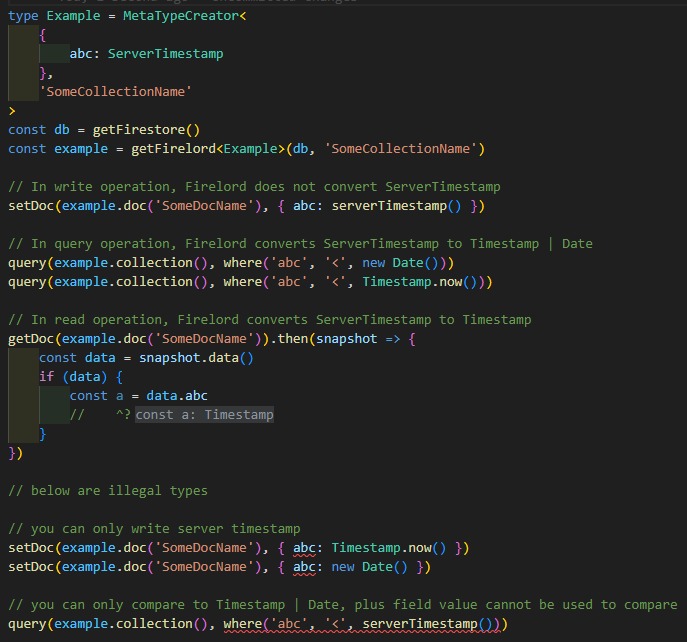
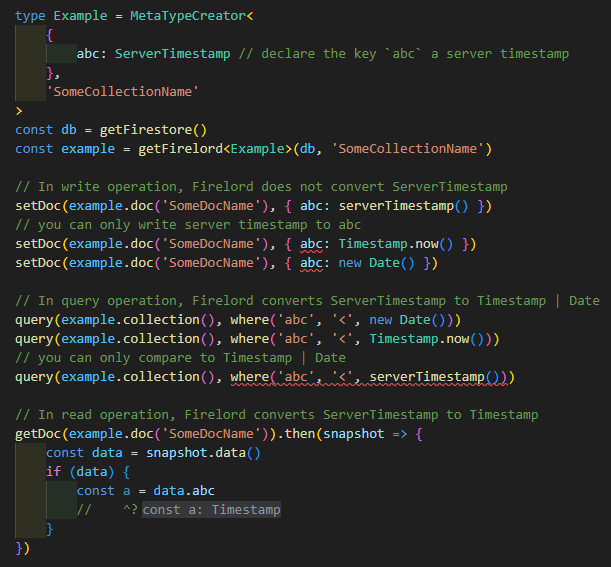
update readme, add cjs version

diff --git a/codeForDoc/src/readme.ts b/codeForDoc/src/readme.ts
@@ -10,9 +10,10 @@ import {
 	getDoc,
 	Timestamp, // firestore timestamp
 } from 'firelordjs'
+
 type Example = MetaTypeCreator<
 	{
-		a: ServerTimestamp
+		abc: ServerTimestamp // declare the key `abc` a server timestamp
 	},
 	'SomeCollectionName'
 >
@@ -20,14 +21,25 @@ const db = getFirestore()
 const example = getFirelord<Example>(db, 'SomeCollectionName')
 
 // In write operation, Firelord does not convert ServerTimestamp
-setDoc(example.doc('SomeDocName'), { a: serverTimestamp() })
+setDoc(example.doc('SomeDocName'), { abc: serverTimestamp() })
+// you can only write server timestamp to abc
+// @ts-expect-error
+setDoc(example.doc('SomeDocName'), { abc: Timestamp.now() })
+// @ts-expect-error
+setDoc(example.doc('SomeDocName'), { abc: new Date() })
+
 // In query operation, Firelord converts ServerTimestamp to Timestamp | Date
-query(example.collection(), where('a', '<', new Date()))
-query(example.collection(), where('a', '<', Timestamp.now()))
+query(example.collection(), where('abc', '<', new Date()))
+query(example.collection(), where('abc', '<', Timestamp.now()))
+// you can only compare to Timestamp | Date
+// @ts-expect-error
+query(example.collection(), where('abc', '<', serverTimestamp()))
+
 // In read operation, Firelord converts ServerTimestamp to Timestamp
 getDoc(example.doc('SomeDocName')).then(snapshot => {
 	const data = snapshot.data()
 	if (data) {
-		const a = data.a // Timestamp
+		const a = data.abc
+		//    ^?
 	}
 })

diff --git a/README.md b/README.md
@@ -96,36 +96,16 @@
 
 # FirelordJS
 
-FirelordJS is the only library capable of providing truly generic type safety while exposing almost all the API of the official Firestore SDK.
+FirelordJS is the only library capable of providing truly generic type safety while exposing almost all the API of the official Firestore SDK. The goal is to end Firestore typing madness.
 
-It is time to end Firestore typing madness once and for all.
+Example of how Firelord transforms `ServerTimestamp` type in different operations:
 
-```ts
-type Example = MetaTypeCreator<
-	{
-		a: ServerTimestamp
-	},
-	'SomeCollectionName'
->
-const db = getFirestore()
-const example = getFirelord<Example>(db, 'SomeCollectionName')
-
-// In write operation, Firelord does not convert ServerTimestamp
-setDoc(example.doc('SomeDocName'), { a: serverTimestamp() })
-// In query operation, Firelord converts ServerTimestamp to Timestamp | Date
-query(example.collection(), where('a', '<', new Date()))
-query(example.collection(), where('a', '<', Timestamp.now()))
-// In read operation, Firelord converts ServerTimestamp to Timestamp
-getDoc(example.doc('SomeDocName')).then(snapshot => {
-	const data = snapshot.data()
-	if (data) {
-		const a = data.a // Timestamp
-	}
-})
-```
-
-[!["Buy Me A Coffee"](https://www.buymeacoffee.com/assets/img/custom_images/orange_img.png)](https://www.buymeacoffee.com/AcidCoder)  
-Love our work? Support us to make it even better!
+<p align="center">				
+	<img
+		src="https://github.com/tylim88/FirelordJS/blob/main/img/example.png?raw=true"
+		alt="Example of how Firelord handles `ServerTimestamp` type in different operations"
+	/>
+</p>
 
 FirelordJS:
 
@@ -136,7 +116,7 @@ FirelordJS:
 - Supports deeply nested object type: `Record<string,Record<string,Record<string,...>>>`, max 1000 levels.
 - Supports deeply [nested sub collection](https://firelordjs.com/guides/metatype), all children can [track back](https://firelordjs.com/guides/metatype/#know-your-ancestors) all their ancestors type, max 100 generations.
 - Generates all possible flatten paths combinations based on your declared type(e.g.: `a`, `a.b`, `a.b.c`, `a.b.d`, `a.x`, `a.x.y`, `a.x.z`) with type safety.
-- Generates different types for different operations, see [Type Conversion](https://firelordjs.com/highlights/type_conversion) for complete list of type transformations.
+- Generates different types for different operations, see [Transformative Types](https://firelordjs.com/highlights/transformative_types) for complete list of type transformations.
 - Package size is the [smallest](https://firelordjs.com/minified_size).
 - Doesn't need code generation and schema language, just pure Typescript.
 - Supports [@firebase/rules-unit-testing and emulator](https://firelordjs.com/guides/tests), no extra API is needed!
@@ -145,30 +125,86 @@ FirelordJS:
 - Takes care pesky runtime errors like empty array errors([filter](https://firelordjs.com/highlights/where#dealing-with-empty-array-%EF%B8%8F) & [cursors](https://firelordjs.com/highlights/cursor#empty-rest-parameter)) and [implicit data deletion in update operation](https://firelordjs.com/highlights/update#implicit-data-deletion).
 - Eliminates the repetitive tasks of writing collections ID and assigning the Firestore instance.
 - Blocks undocumented errors and provides over [30 custom error messages](https://github.com/tylim88/FirelordJS/blob/main/src/types/error.ts) to assist you in writing proper Firestore code! Here is an example:
-  ![custom error message](./img/custom.png)
+<p align="center">				
+	<img
+		src="https://github.com/tylim88/FirelordJS/blob/main/img/custom.png?raw=true"
+		alt="Example of how Firelord handles `ServerTimestamp` type in different operations"
+	/>
+</p>
 
 FirelordJS is the only library capable of **[typing against](https://firelordjs.com/highlights/query_rule_typing)** Firestore limitations.
 
-I am confident it has the best type safe and nothing come close. I put money on my words and I will buy you [x cups of coffee](https://www.buymeacoffee.com/) if you:
+## Bounty
 
-1. found something better: 150 cups
-2. created something better: 1500 cups (you don't need to a make full fledge library, something that is minimally better is enough, open an issue if you want to take this challenge)
+I am confident Firelord is the best among its kind in terms of best safety and developer experience. I stand behind my words, and I will buy you [x cups of coffee](https://www.buymeacoffee.com/) if you:
+
+1. find something better: 200 cups
+2. created something better: 2000 cups.
+
+The bounty has been available and keeps increasing since July 14, 2022. If this bounty is claimed, I will stop working on everything and deprecate Firelord forever.
+
+## ESM? CommonJS?
+
+FirelordJS built files are a bit complicated. It is not an ESM module(no `"type":"module"` in `package.json`) but it also does not transpile `import` statements to CommonJS.
+
+Results tested with various build tools:
+
+1. Non ESM with `import` statements
+
+- ✅ work with [`create-react-app`](https://github.com/facebook/create-react-app)
+- ✅ work with [`@vitejs/plugin-react-swc`](https://github.com/vitejs/vite-plugin-react-swc)
+- ✅ work with [`@sveltejs/vite-plugin-svelte`](https://github.com/sveltejs/vite-plugin-svelte)
+- ✅ work with [`nextjs`](https://github.com/vercel/next.js) with [`next-transpile-modules`](https://github.com/martpie/next-transpile-modules)
+- ❌ does not work with [`@sveltejs/kit/vite`](https://github.com/sveltejs/kit)
+
+2. ESM (add "type": "module" in package.json)
+
+- ✅ work with `@vitejs/plugin-react-swc`
+- ✅ work with `@sveltejs/vite-plugin-svelte`
+- ✅ work with `nextjs` with `next-transpile-modules`
+- ❌ does not work with `create-react-app`, see [issue](https://github.com/facebook/create-react-app/issues/11865)
+- ❌ does not work with `@sveltejs/kit/vite` see [issue](https://github.com/sveltejs/kit/issues/612)
+
+3. CommonJS
+
+- ❌ does not work with `create-react-app`
+- ❌ does not work with `@vitejs/plugin-react-swc`
+- ❌ does not work with `@sveltejs/vite-plugin-svelte`
+- ✅ does not work with `nextjs`.
+- ✅ work with `@sveltejs/kit/vite`
+
+Using CommonJS Firelord with Firebase v9.17.0 and beyond break most of the build tools because of this [Firebase issue](https://github.com/firebase/firebase-js-sdk/issues/7135?notification_referrer_id=NT_kwDOAE_D9bI1OTAzNjg1MTE2OjUyMjc1MDk#issuecomment-1518194548)
+
+Non ESM has the highest compatibility which is why it is the default package.
+If you see `cannot use import statement outside a module` error, please install the CommonJS version with `npm i firelordjs@cjs`
+
+## Mapped Type Support
+
+By design Firelord banned mapped type (e.g. `Record<string, something>`), this was until version 2.5.10. To understand why mapped was banned in the first place and why it is possible now, see this [issue](https://github.com/tylim88/Firelord/issues/20). In short, querying mapped type requires extra information, make sure you know what you are doing. This is not a limitation, this is simply how things work.
 
 ## Nested Composite Query Rulings (v2.5+)
 
 Rulings for `or` & `and` composite query are ready, rulings works with nested query, example:
 
-Official SDK runtime error:  
-![SDK runtime error](./img/composite2.png)
+Official SDK runtime error:
 
-Firelord compile time error:  
-![nested composite query ruling](./img/composite1.png)
+<p align="center">				
+	<img
+		src="https://github.com/tylim88/FirelordJS/blob/main/img/composite2.png?raw=true"
+		alt="Example of how Firelord handles `ServerTimestamp` type in different operations"
+	/>
+</p>
+
+Firelord compile time error:
+
+<p align="center">				
+	<img
+		src="https://github.com/tylim88/FirelordJS/blob/main/img/composite1.png?raw=true"
+		alt="Example of how Firelord handles `ServerTimestamp` type in different operations"
+	/>
+</p>
 
 It has all the regular rulings plus new composite rulings. See also [peeling composite query error messages](https://firelordjs.com/guides/understanding_error#peeling-composite-query-error-messages)
-
-## NextJS TroubleShooting
-
-[Use FirelordJS in NextJS](https://github.com/tylim88/FirelordJS/issues/95)
 
 ## TO DO
 
@@ -182,25 +218,11 @@ It has all the regular rulings plus new composite rulings. See also [peeling com
 
 ## Dropped TO DO
 
-- ~~Support for wide numeric key and wide string key (Record<number, unknown> and Record<string, unknown>). It still needs more consideration because this data type is pointless to query(we need to know what the key is first, it would be better to just save the document ID somewhere) and we need to constantly aware of the document size limit. If you don't care about query and you sure that the size limit will not exceed 1 MB, then this is for you. But allowing this also open up for mistake and bad practice for those who are not aware. Most likely I will not implement this but will give it deeper thoughts in the future.~~ (**[Update: This is implemented](https://github.com/tylim88/Firelord/issues/20)**)
-
 - Support for object unions type. Objects unions type seem to be a good type to have in NoSQL database because of how ever-changing NoSQL schema is. However, this is not the case because it brings uncertainty that cannot be handled reasonably. For example, with `{a:number}|{b:string}`, you can set `{a:1}` then update `{b:"x"}`, in this case the type is no longer unions type but an intersection type: `{a:number} & {b:string}`. So I will not implement this feature and will remove it from [FireSageJS](https://github.com/tylim88/FireSageJS) too. A better way to solve this is to use [`PossiblyReadAsUndefined`](https://firelordjs.com/guides/possibly_read_as_undefined) label on newly add field instead(you can also label abandoned fields as `PossiblyReadAsUndefined`, but an easier way is to totally ignore them).
 
 - Support for optional (`?` modifier). Optional is a highly requested feature because of how common it is, however because of how Firestore works: it is impossible to query a missing field. Example: it is impossible to query user that has no phone number if phone number field does not exist. Because of this, it is important to make sure every field exists. You may not need the field now, but you may need it later plus adding default value is simple, especially with such powerful typing library like Firelord. So in order to not accidentally cripple your query in the future, I will not implement this feature. Yes, set merge basically lead to the same problem, hence I encourage you to use `upset` instead (will be available in the future).
 
 - Narrow read type base on query constraint. For example `where('a', '==', true)` will narrow the read type of field `a` to `true`, it should be able to narrow down complex case like `where('a.b.c', '==', { d:[{e:1}] })`. Expected to support `==` comparator for all types and _possibly_ `!=` comparator for literal type(type filtering for`!=` comparator poses great complexity hence I may not work on it). Update: I decided to give this up because with the introduction of composite query, it will be extremely difficult to implement this. Plus unlike narrowing down write type, narrowing down the read type does not contribute to type safety, it just makes thing slightly simpler(skip exhaustive check).
-
-## Possible Architecture Changes in V3
-
-Firelord follows a type-first approach, which means that every entity starts with a type. While this approach has its benefits, it can be seen as objectively inferior to a code-first approach since we can always infer types from code(with code-first approach), but not the other way around(with type-first approach). A good example of this is tools that build on top of `zod`, like [trpc](https://github.com/trpc/trpc), which provides both validation and type inference, but this is not possible for Firelord.
-
-Some may question why embedded validation is necessary for databases API, as they are not endpoints(where data validation usually takes place). However, Firestore is a database that directly interacts with clients. Therefore, it is necessary to have validation for triggers, as security rules may not always suffice and do not have type safe.
-
-Type-first approach offers better developer experience, but it doesn't anything at runtime. On the other hand, the code-first approach may require some initial trade-offs in developer experience, but it can do both typing and validation.
-
-~~Another alternative is code generation, keeping the original developer experience and generate `zod` validation for those working with triggers. I want to avoid code generation if possible, because our single source of truth now involving 2 steps(changing types and generating code), which can be a potential point of failure if we forget to generate code after changing types.~~
-
-Update: Only children would choose, but adults want them all. I will keep the existing type-first approach and add code-first approach. No code generation, users are free to choose type-first approach or code-first approach.
 
 ## Trivial
 
@@ -210,7 +232,18 @@ Update: Only children would choose, but adults want them all. I will keep the ex
 
 ## Related Projects
 
-1. [Firelord](https://github.com/tylim88/Firelord) - Typescript wrapper for Firestore Admin
-2. [FireSword](https://github.com/tylim88/firesword) - Filter Firestore and RTDB Unknown Keys.
-3. [FireCall](https://github.com/tylim88/FireCall) - Helper Function to write easier and safer Firebase onCall function.
-4. [FireSageJS](https://github.com/tylim88/FireSageJS) - Typescript wrapper for Realtime Database
+We are creating the best type safety tool chains for Firebase, and your support helps us make them possible:
+
+[!["Buy Me A Coffee"](https://www.buymeacoffee.com/assets/img/custom_images/orange_img.png)](https://www.buymeacoffee.com/AcidCoder)
+
+✅ - Production Ready  
+🏗 - Building/Planning/Repurpose/Rewrite
+
+1. [FirelordJS](https://github.com/tylim88/FirelordJS) - Typescript wrapper for Firestore Web. ✅
+2. [Firelord](https://github.com/tylim88/Firelord) - Typescript wrapper for Firestore Admin. ✅
+3. [FireSageJS](https://github.com/tylim88/FireSageJS) - Typescript wrapper for Realtime Database Web ✅
+4. FireSage - Typescript wrapper for Realtime Database Admin. 🏗
+5. [FireSword](https://github.com/tylim88/Firesword) - Firestore Zod Runtime Validation (Firelord Code First Approach).🏗
+6. [FireLaw](https://github.com/tylim88/FireLaw) - Firestore Security Rules VS Code Type Linter based on Firelord type.🏗
+7. ??? - Firelord and Firesage Front End Intergration 🏗
+8. [FireCall](https://github.com/tylim88/FireCall) - Helper Function to write easier and safer Firebase onCall function.🏗
